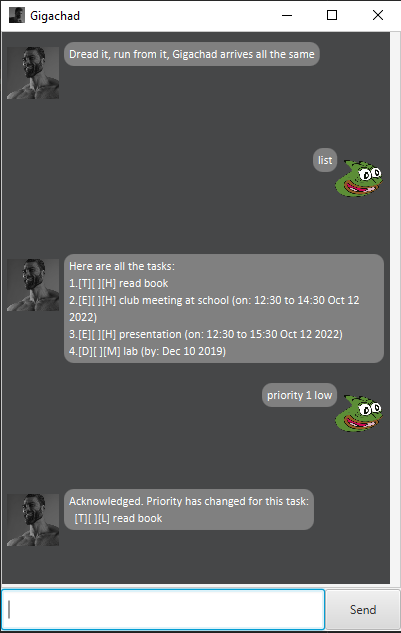
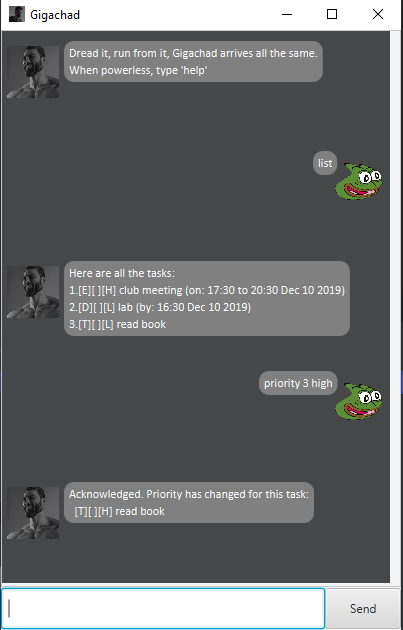
Add help command

Changed region(s): [[0.0, 0.0, 1.0, 1.0], [0.0, 0.754, 0.808, 0.8746]]

diff --git a/src/main/java/duke/Ui.java b/src/main/java/duke/Ui.java
@@ -3,6 +3,17 @@ package duke;
 import java.util.Comparator;
 import java.util.List;
 
+import duke.command.DeadlineCommand;
+import duke.command.DeleteCommand;
+import duke.command.DueCommand;
+import duke.command.EventCommand;
+import duke.command.ExitCommand;
+import duke.command.FindCommand;
+import duke.command.ListCommand;
+import duke.command.MarkCommand;
+import duke.command.PriorityCommand;
+import duke.command.ToDoCommand;
+import duke.command.UnmarkCommand;
 import duke.task.Task;
 import duke.task.TaskList;
 
@@ -11,7 +22,8 @@ import duke.task.TaskList;
  * A component of the chatBot Duke that returns his response as a string.
  */
 public class Ui {
-    public static final String INTRO_MESSAGE = "Dread it, run from it, Gigachad arrives all the same";
+    public static final String INTRO_MESSAGE = "Dread it, run from it, Gigachad arrives all the same."
+            + "\nWhen powerless, type 'help'";
     public static final String EXIT_MESSAGE = "Farewell, till we meet again";
 
     /**
@@ -121,6 +133,21 @@ public class Ui {
             strBuilder.append("\n").append(i + 1).append(".").append(list.get(i));
         }
         return strBuilder.toString();
+    }
+
+
+    /**
+     * Returns the message containing all the available commands' formats.
+     *
+     * @return The string containing the intended message.
+     */
+    public String getHelpMessage() {
+        String message = "Here are my abilities:\n";
+        message += ToDoCommand.HELP_MESSAGE + DeadlineCommand.HELP_MESSAGE + EventCommand.HELP_MESSAGE
+                + MarkCommand.HELP_MESSAGE + UnmarkCommand.HELP_MESSAGE + DeleteCommand.HELP_MESSAGE
+                + ListCommand.HELP_MESSAGE + PriorityCommand.HELP_MESSAGE + DueCommand.HELP_MESSAGE
+                + FindCommand.HELP_MESSAGE + ExitCommand.HELP_MESSAGE;
+        return message;
     }
 }
 

diff --git a/src/main/java/duke/parser/Parser.java b/src/main/java/duke/parser/Parser.java
@@ -14,6 +14,7 @@ import duke.command.DueCommand;
 import duke.command.EventCommand;
 import duke.command.ExitCommand;
 import duke.command.FindCommand;
+import duke.command.HelpCommand;
 import duke.command.ListCommand;
 import duke.command.MarkCommand;
 import duke.command.PriorityCommand;
@@ -70,6 +71,10 @@ public class Parser {
         }
         case ListCommand.COMMAND_WORD: {
             command = new ListCommand();
+            break;
+        }
+        case HelpCommand.COMMAND_WORD: {
+            command = new HelpCommand();
             break;
         }
         case DueCommand.COMMAND_WORD:
@@ -211,7 +216,7 @@ public class Parser {
             task = createTaskWithDate(Objects.requireNonNullElse(priority, Priority.LOW), str[0], str[1], type);
             return task;
         case EVENT:
-            String[] str1 = description.split(" /at ", 2);
+            String[] str1 = description.split(" /on ", 2);
             task = createTaskWithDate(Objects.requireNonNullElse(priority, Priority.LOW), str1[0], str1[1], type);
             return task;
         default:

diff --git a/src/main/java/duke/command/HelpCommand.java b/src/main/java/duke/command/HelpCommand.java
@@ -5,14 +5,12 @@ import duke.Ui;
 import duke.task.TaskList;
 
 /**
- * Command used to exit the session with the chatBot.
+ * Command used to list all the available commands.
  */
-public class ExitCommand extends Command {
-    public static final String COMMAND_WORD = "bye";
-    public static final String HELP_MESSAGE = "Exit: bye";
+public class HelpCommand extends Command {
+    public static final String COMMAND_WORD = "help";
     /**
-     * Ends the session with the user by returning
-     * the corresponding message to the GUI.
+     * Returns the message of all available commands to the GUI.
      *
      * @param list The taskList of Duke.
      * @param storage The fileStorage of Duke.
@@ -21,6 +19,6 @@ public class ExitCommand extends Command {
      */
     @Override
     public String execute(TaskList list, FileStorage storage, Ui ui) {
-        return ui.getOutroMessage();
+        return ui.getHelpMessage();
     }
 }

diff --git a/src/main/java/duke/Duke.java b/src/main/java/duke/Duke.java
@@ -51,7 +51,7 @@ public class Duke {
     public String getResponse(String input) {
         String response = "";
         try {
-            Command command = parser.parse(input);
+            Command command = parser.parse(input.toLowerCase());
             assert command != null : "Command should not be null";
             response = command.execute(listOfTasks, storage, ui);
         } catch (DukeException e) {

diff --git a/src/main/java/duke/command/DeadlineCommand.java b/src/main/java/duke/command/DeadlineCommand.java
@@ -11,6 +11,7 @@ import duke.task.TaskList;
  */
 public class DeadlineCommand extends Command {
     public static final String COMMAND_WORD = "deadline";
+    public static final String HELP_MESSAGE = "Add Deadline: deadline [priority] [description] /by [date] [time]\n\n";
     private Task task;
     public DeadlineCommand(Task task) {
         this.task = task;

diff --git a/src/main/java/duke/command/EventCommand.java b/src/main/java/duke/command/EventCommand.java
@@ -10,6 +10,7 @@ import duke.task.TaskList;
  */
 public class EventCommand extends Command {
     public static final String COMMAND_WORD = "event";
+    public static final String HELP_MESSAGE = "Add Event: event [priority] [description] /on [date] [time]-[time]\n\n";
     private Task task;
     public EventCommand(Task task) {
         this.task = task;

diff --git a/src/main/java/duke/command/FindCommand.java b/src/main/java/duke/command/FindCommand.java
@@ -13,6 +13,7 @@ import duke.task.TaskList;
 public class FindCommand extends Command {
 
     public static final String COMMAND_WORD = "find";
+    public static final String HELP_MESSAGE = "Find Tasks: find [queries]\n\n";
     private String[] queries;
     public FindCommand(String ... queries) {
         this.queries = queries;

diff --git a/src/main/java/duke/command/UnmarkCommand.java b/src/main/java/duke/command/UnmarkCommand.java
@@ -10,6 +10,7 @@ import duke.task.TaskList;
  */
 public class UnmarkCommand extends Command {
     public static final String COMMAND_WORD = "unmark";
+    public static final String HELP_MESSAGE = "Unmark Task Done: unmark [index]\n\n";
     private int index;
     public UnmarkCommand(int index) {
         this.index = index - 1;

diff --git a/src/main/java/duke/command/DeleteCommand.java b/src/main/java/duke/command/DeleteCommand.java
@@ -10,6 +10,7 @@ import duke.task.TaskList;
  */
 public class DeleteCommand extends Command {
     public static final String COMMAND_WORD = "delete";
+    public static final String HELP_MESSAGE = "Delete Task: delete [index]\n\n";
     private int index;
     public DeleteCommand(int index) {
         this.index = index - 1;

diff --git a/src/main/java/duke/command/ToDoCommand.java b/src/main/java/duke/command/ToDoCommand.java
@@ -11,6 +11,7 @@ import duke.task.TaskList;
  */
 public class ToDoCommand extends Command {
     public static final String COMMAND_WORD = "todo";
+    public static final String HELP_MESSAGE = "Add ToDo: todo [priority] [description]\n\n";
     private Task task;
     public ToDoCommand(Task task) {
         this.task = task;

diff --git a/src/main/java/duke/command/MarkCommand.java b/src/main/java/duke/command/MarkCommand.java
@@ -10,6 +10,7 @@ import duke.task.TaskList;
  */
 public class MarkCommand extends Command {
     public static final String COMMAND_WORD = "mark";
+    public static final String HELP_MESSAGE = "Mark Task Done: mark [index]\n\n";
     private int index;
     public MarkCommand(int index) {
         this.index = index - 1;

diff --git a/src/main/java/duke/command/PriorityCommand.java b/src/main/java/duke/command/PriorityCommand.java
@@ -10,6 +10,7 @@ import duke.task.TaskList;
  */
 public class PriorityCommand extends Command {
     public static final String COMMAND_WORD = "priority";
+    public static final String HELP_MESSAGE = "Set Priority: priority [index] [value]\n\n";
 
     private Priority priority;
     private int index;
